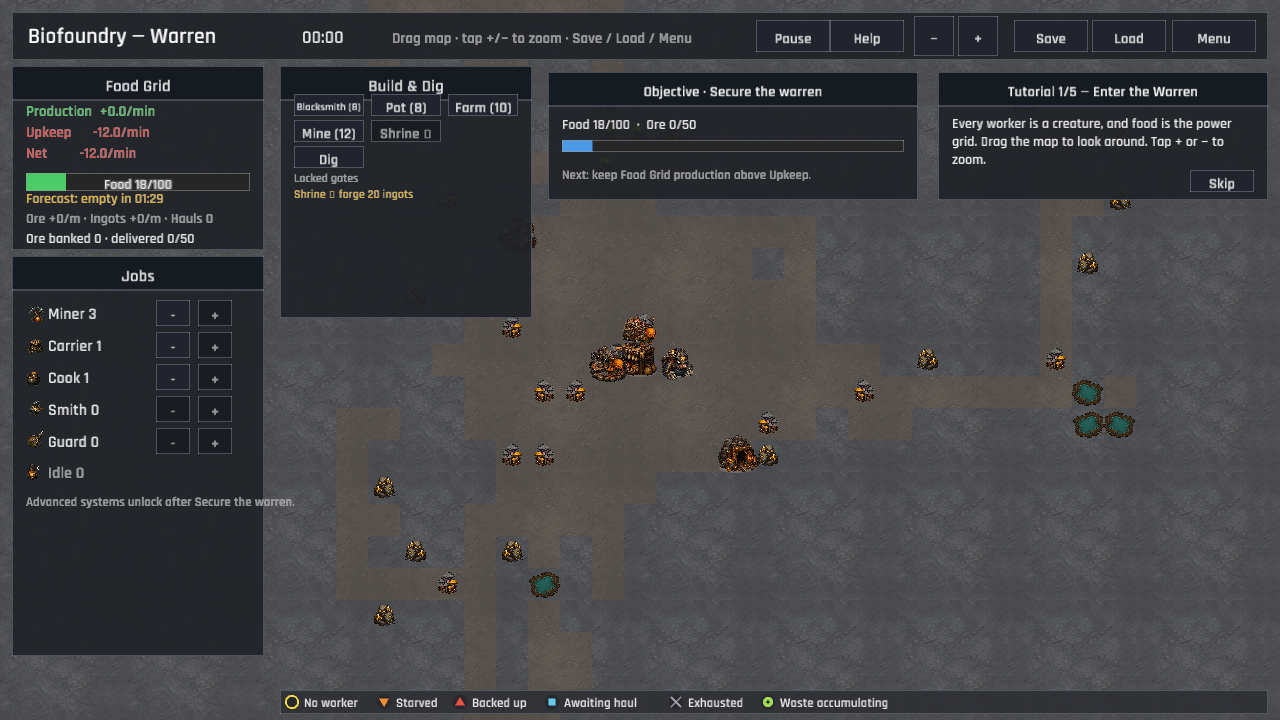
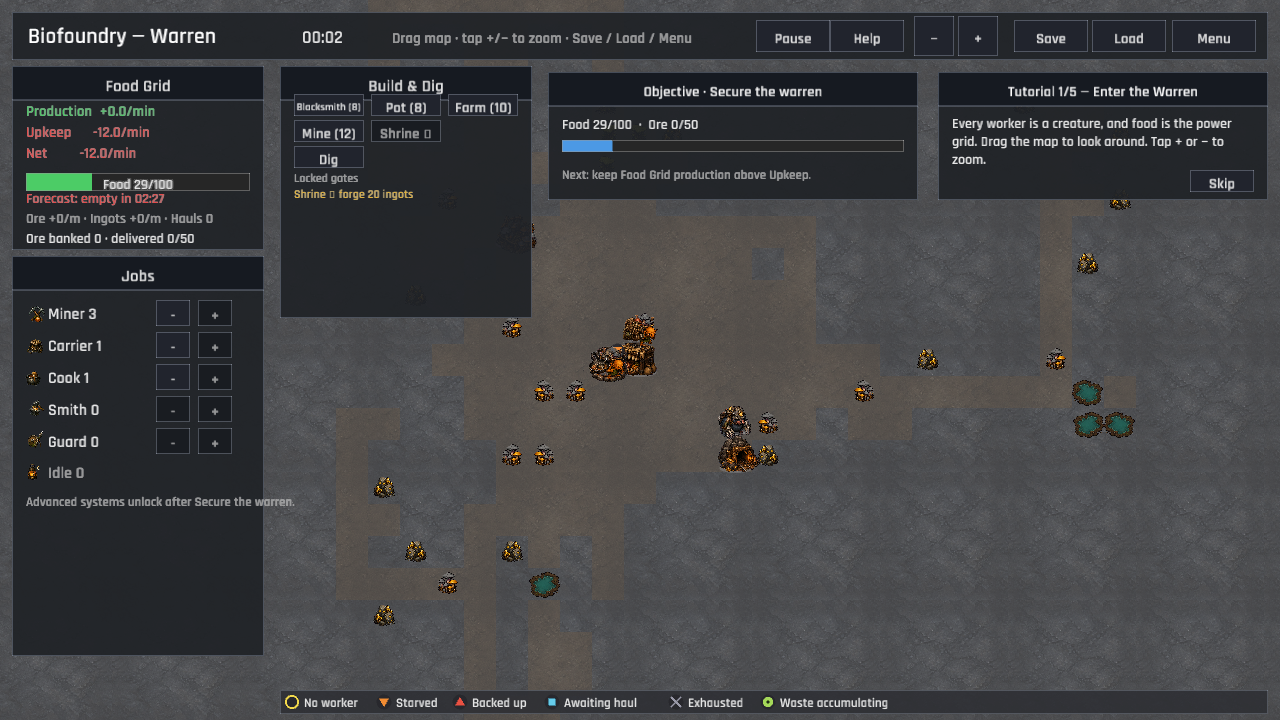
The first heartbeat leaves room to learn the controls (P4 opening pacing)
A fresh warren began with 18 food against 12 food per minute of upkeep, allowing the first food warning after only about 30 seconds. The opening reserve is now 30, giving the first lesson a full minute before warning while keeping the crisis in the planned 2–10 minute window. A deterministic test pins that grace period, and the fixed-seed probe records secure, factory, shrine, and worm beats.

diff --git a/src/simulation/tests/economy.rs b/src/simulation/tests/economy.rs
@@ -29,6 +29,29 @@ fn default_allocation_hits_famine_around_five_minutes() {
     assert!(!session.creatures.is_empty());
 }
 
+/// The first warning leaves enough time to read the opening controls and act;
+/// the crisis should be forecast, not announced during the first lesson.
+#[test]
+fn opening_food_warning_has_a_lesson_grace_period() {
+    let (data, mut session) = boot_on_config_seed();
+
+    let warning_at = run_until(
+        &mut session,
+        &data,
+        5.0,
+        |_, _| {},
+        |s| {
+            crate::simulation::food::time_to_empty_seconds(s, &data)
+                .is_some_and(|seconds| seconds <= data.balance.food_warning_sec)
+        },
+    );
+
+    assert!(
+        warning_at >= 60.0,
+        "the opening food warning arrived at {warning_at:.1}s; allow the first lesson to land"
+    );
+}
+
 /// The famine is survivable by reassigning workers, and the game is
 /// winnable in one sitting on a fixed seed: react to the meter by
 /// moving miners onto the food economy, then win 50 ore + 100 food.
